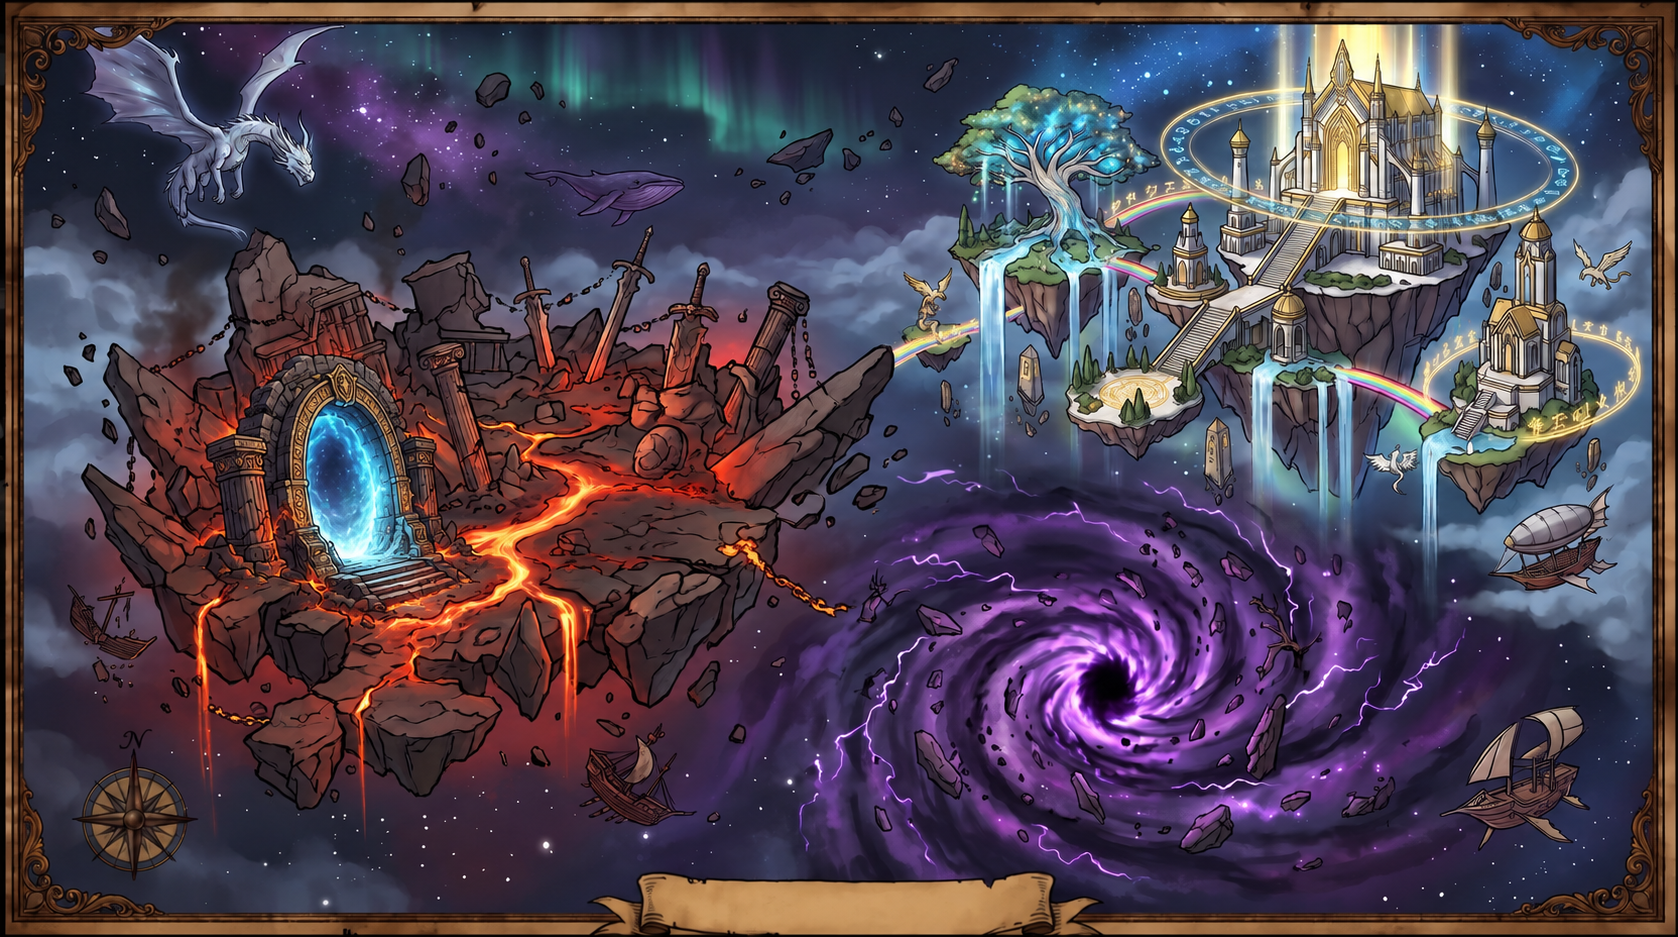
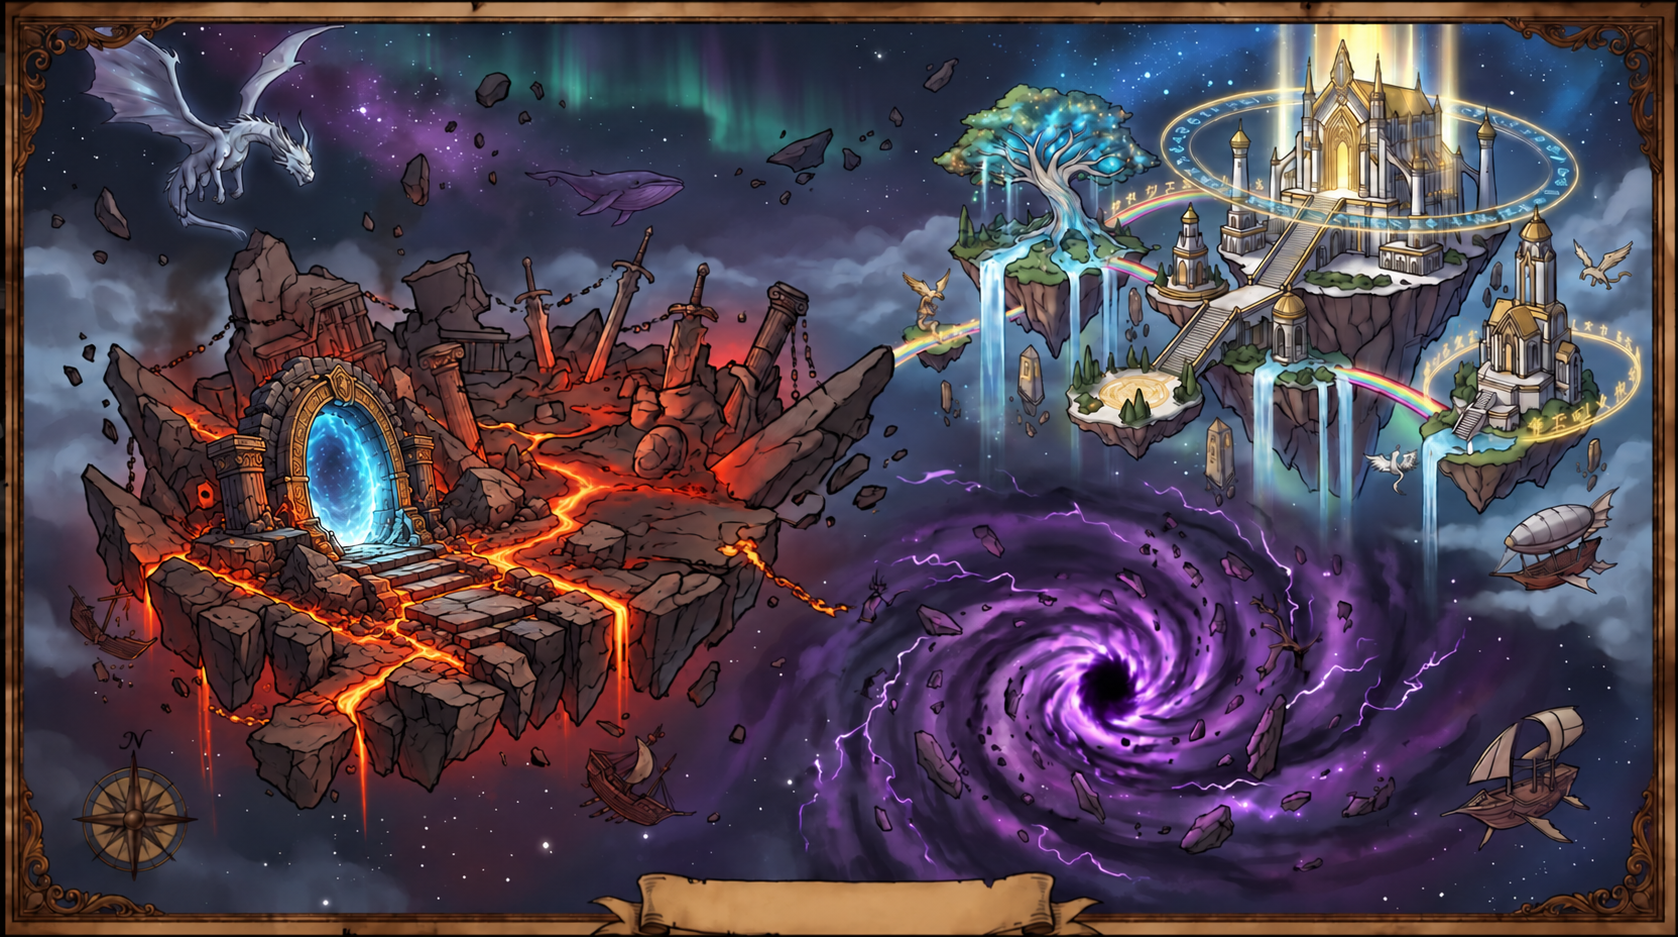
[Codex] fix: 調整神界返回門周圍岩台透視

diff --git a/codex-authored/god-world-map/SOURCE.md b/codex-authored/god-world-map/SOURCE.md
@@ -1,5 +1,15 @@
 # 神界大地圖
 
+## 返回門周圍岩台透視修訂（2026-10-30，版本2）
+
+使用者指出門體較直立、附近地形較斜，要求修改岩石造形與角度。以第一版完整PNG為輸入，內建imagegen局部調整門旁斷岩、門腳承托平台與階梯，補足厚度、接地陰影及斜向三分之四透視。門框與藍白門洞造型／位置維持，保留原CSS動畫及互動熱區；有局部及細部生成差異。RPG Mote Studio沿用本聊天無法連線的替代流程。
+
+god-realm-before-rock-perspective.png保留首版大型門背景，source.json.previous核對其SHA；god-realm.png為最新版本，source.json.version=2。使用者提供的JPG原稿不變。
+
+完整編修提示詞：
+
+Precise LOCAL inpainting edit of this exact existing fantasy world-map background, not a redraw. Canvas 1678x937, keep full framing and scale. The user likes the existing blue oval portal on the left battlefield but its immediate support rocks don't fit its relatively upright orientation versus the slanted island landscape. Change ONLY the rock formation, supporting terrace, nearby broken stones and stair approach IMMEDIATELY around that portal, approximately x=12%..29%, y=36%..71%. Keep the existing bronze-and-stone portal arch silhouette, ornament, blue luminous aperture, aperture center and angle unchanged (so the game's live animated overlay still fits). Give the portal a clearly volumetric thick wedge-shaped rocky plinth, a coherent slightly angled landing and broken stone steps receding into the island in the same oblique elevated three-quarter perspective as the nearby ruin foundations and lava channels. Reshape the jagged rock outcrops flanking and behind the gate to transition naturally from its upright arch into the island's diagonal terrain planes. Show plausible top surfaces and thick darker vertical rock faces, contact shadows under the portal feet, interlocked fractured strata, and restrained warm lava reflected light. The pedestal must be irregular natural basalt integrated into the island, not a flat front-facing rectangular slab or a new grand symmetrical staircase. Make the rocks and portal look like one deliberately built ancient ruin on an angled volcanic island, not an upright cutout pasted onto a steep surface. Preserve the same dark ink outlines, brushwork, scale and palette. Everything outside this local rock region must stay as unchanged as possible: entire rest of battlefield, floating island silhouette, lava routes, all other islands/dragon/whale/chaos vortex/sanctuary, ornate frame and empty bottom parchment. NO text, numbers, labels, arrows, circles or new UI. Do not tilt or move the whole map or portal, do not add a second portal or enlarge the portal.
+
 - 來源：使用者於2026-10-30提供god_world.jpg，明確指定用於本遊戲神界大地圖並授權編修。補充要求太古戰場左側原石門改大型傳送門、與遺跡場景相結合並加動畫光效。
 - 使用依據僅限本次使用者提供並指定的圖稿，不推定其他素材或外部素材包授權。保留未修改原稿god-world-user-original.jpg；SHA256與尺寸見source.json。
 - RPG Mote Studio本次連線無法開啟，採內建imagegen直接編修提供的圖。保留浮島／龍／鯨／聖域／漩渦／遺跡及框邊構圖，移除三處名稱／關卡數、底部舊標題及右上烘焙關閉圖案，原石門改為遺跡一體的石造拱門／階台／藍白門洞。圖稿仍有細部生成差異，非逐像素保留原圖。
